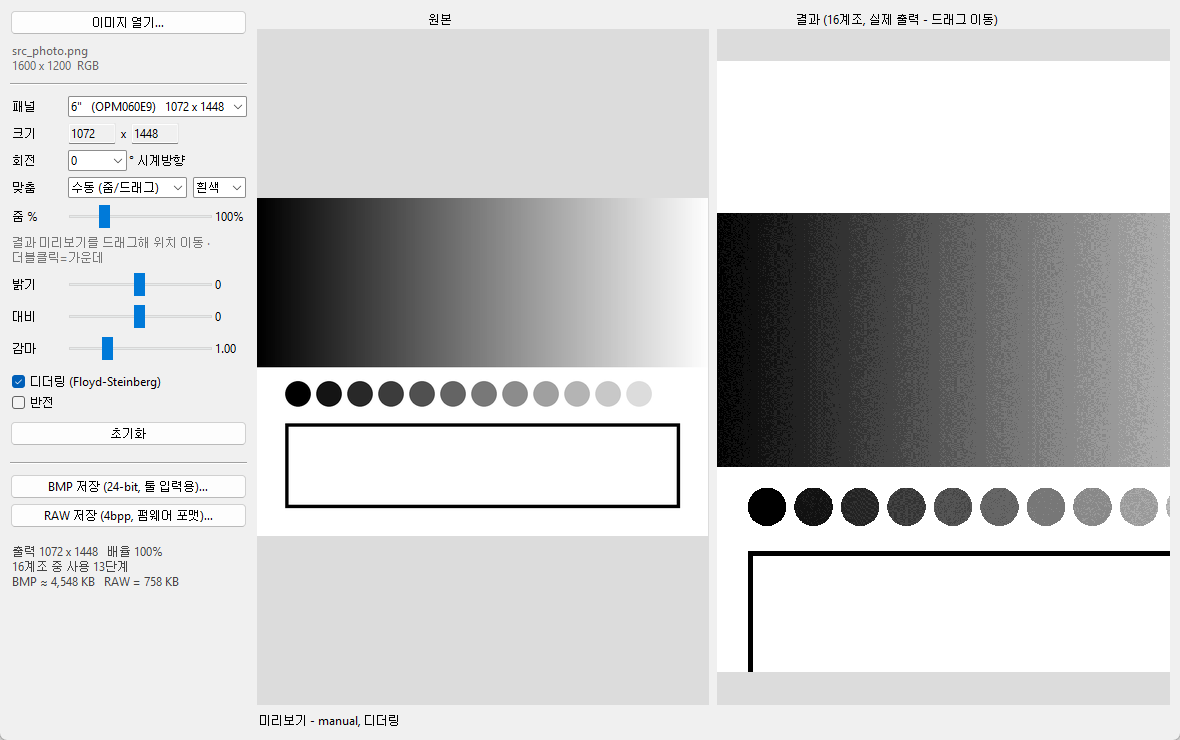
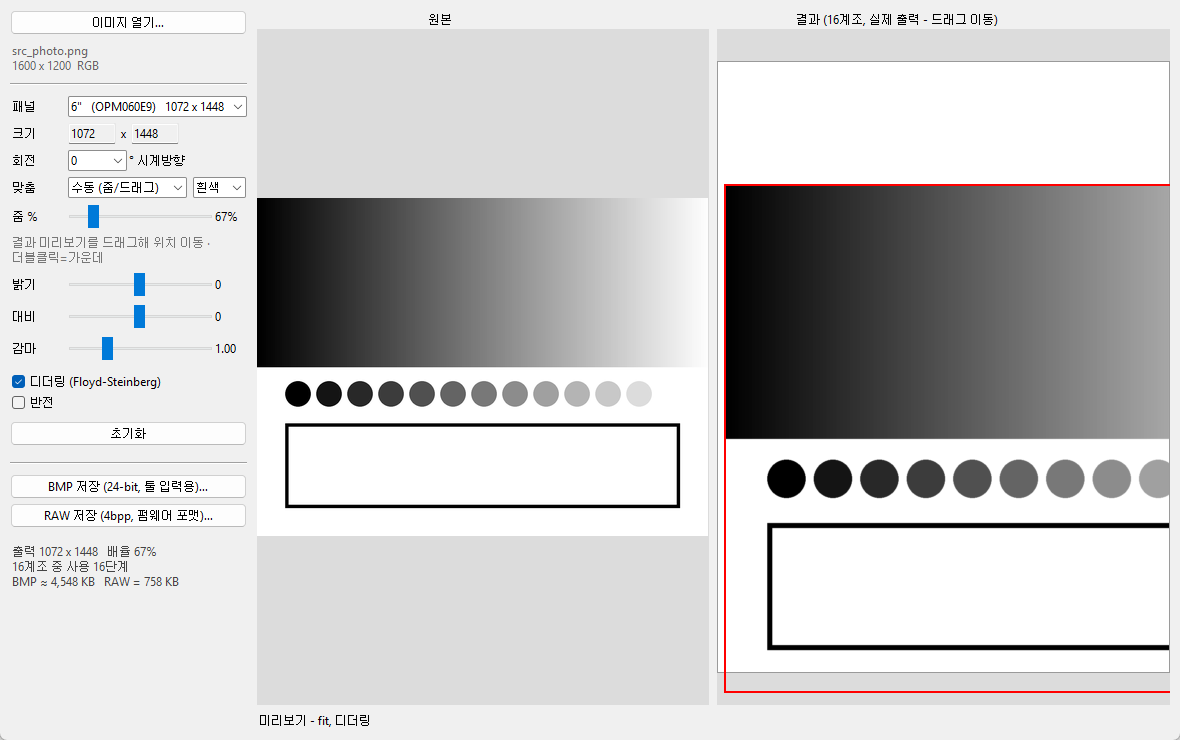
Smooth drag with a canvas-resolution preview and a red content outline
Dragging re-ran the full panel-resolution resize+quantise on every
mouse motion (a 1872x1404 output = 2.6M pixels), which felt sticky. The
drag path now composes a cheap preview at canvas resolution from a
pre-rotated grayscale copy of the source and blits that directly, with a
red rectangle around the image so you can see what you are moving. The
full 16-level convert runs once, on release.

docs/screenshot.png shows a drag in progress with the red outline.

diff --git a/epd_image_tool.py b/epd_image_tool.py
@@ -225,8 +225,8 @@ def run_gui(initial=None):
     root.geometry("1180x740")
     root.minsize(960, 580)
 
-    st = {"src": None, "src_path": None, "levels": None, "display": None,
-          "job": None, "out_scale": 1.0, "out_pos": (0, 0),
+    st = {"src": None, "src_path": None, "src_gray": None, "levels": None,
+          "display": None, "job": None, "out_scale": 1.0, "out_pos": (0, 0),
           "man_scale": 1.0, "man_off": None, "drag": None, "dragging": False,
           "sync": False}
 
@@ -319,6 +319,17 @@ def run_gui(initial=None):
     def cur_mode():
         return MODES[mode_var.get()]
 
+    def rebuild_gray():
+        """Rotated grayscale source kept for the fast drag preview."""
+        if st["src"] is None:
+            st["src_gray"] = None
+            return
+        g = ImageOps.exif_transpose(st["src"]).convert("L")
+        r = int(rot_var.get())
+        if r:
+            g = g.rotate(-r, expand=True)
+        st["src_gray"] = g
+
     def target_size():
         try:
             w, h = int(w_var.get()), int(h_var.get())
@@ -346,6 +357,7 @@ def run_gui(initial=None):
             messagebox.showerror("열기 실패", str(e)); return
         st["src"], st["src_path"] = img, p
         st["man_off"] = None
+        rebuild_gray()
         src_lbl.config(text=f"{os.path.basename(p)}\n{img.width} x {img.height}  {img.mode}")
         draw(cv_src, img.convert("RGB"), "src")
         schedule()
@@ -413,6 +425,36 @@ def run_gui(initial=None):
             root.after_cancel(st["job"])
         st["job"] = root.after(100, render)
 
+    def drag_preview():
+        """Cheap canvas-resolution preview + red outline while dragging.
+        Avoids the full resize+quantise of the panel-sized output per motion."""
+        g = st["src_gray"]
+        size = target_size()
+        if g is None or size is None:
+            return
+        w, h = size
+        cw, ch = max(cv_out.winfo_width(), 50), max(cv_out.winfo_height(), 50)
+        view = min(cw / w, ch / h, 1.0)
+        pw, ph = max(1, round(w * view)), max(1, round(h * view))
+        pad = 255 if pad_var.get() == "흰색" else 0
+        prev = Image.new("L", (pw, ph), pad)
+        iw, ih = g.size
+        s = st["man_scale"] * view
+        sw, sh = max(1, round(iw * s)), max(1, round(ih * s))
+        scaled = g.resize((sw, sh), Image.BILINEAR)         # fast
+        ox, oy = st["man_off"]
+        px, py = round(ox * view), round(oy * view)
+        prev.paste(scaled, (px, py))
+
+        cv_out.delete("all")
+        photos["out"] = ImageTk.PhotoImage(prev)
+        x0, y0 = (cw - pw) // 2, (ch - ph) // 2
+        cv_out.create_image(x0, y0, image=photos["out"], anchor="nw")
+        cv_out.create_rectangle(x0, y0, x0 + pw - 1, y0 + ph - 1, outline="#9a9a9a")
+        cv_out.create_rectangle(x0 + px, y0 + py, x0 + px + sw, y0 + py + sh,
+                                outline="red", width=2)
+        st["out_scale"], st["out_pos"] = view, (x0, y0)
+
     # ---- drag on the result canvas ---------------------------------------
     def drag_start(ev):
         if st["src"] is None:
@@ -428,6 +470,9 @@ def run_gui(initial=None):
             st["man_off"] = (ox, oy)
         st["drag"] = (ev.x, ev.y, st["man_off"])
         st["dragging"] = True
+        if st["job"]:                                  # cancel any pending full render
+            root.after_cancel(st["job"]); st["job"] = None
+        drag_preview()
 
     def drag_move(ev):
         if not st["drag"]:
@@ -435,13 +480,13 @@ def run_gui(initial=None):
         x0, y0, (ox, oy) = st["drag"]
         sc = st["out_scale"] or 1.0
         st["man_off"] = (round(ox + (ev.x - x0) / sc), round(oy + (ev.y - y0) / sc))
-        schedule()
+        drag_preview()                                 # cheap; no full convert
 
     def drag_end(ev):
         st["drag"] = None
         if st["dragging"]:
             st["dragging"] = False
-            schedule()                                 # final render with dithering
+            render()                                   # final full render (dither, 16-level)
 
     def center_image(ev=None):
         if st["src"] is None:
@@ -484,6 +529,7 @@ def run_gui(initial=None):
     def on_zoom_lbl(*_):
         zoom_lbl.config(text=f"{int(zoom_var.get())}%")
 
+    rot_var.trace_add("write", lambda *_: rebuild_gray())
     panel_var.trace_add("write", on_panel)
     mode_var.trace_add("write", on_mode)
     zoom_var.trace_add("write", on_zoom)
